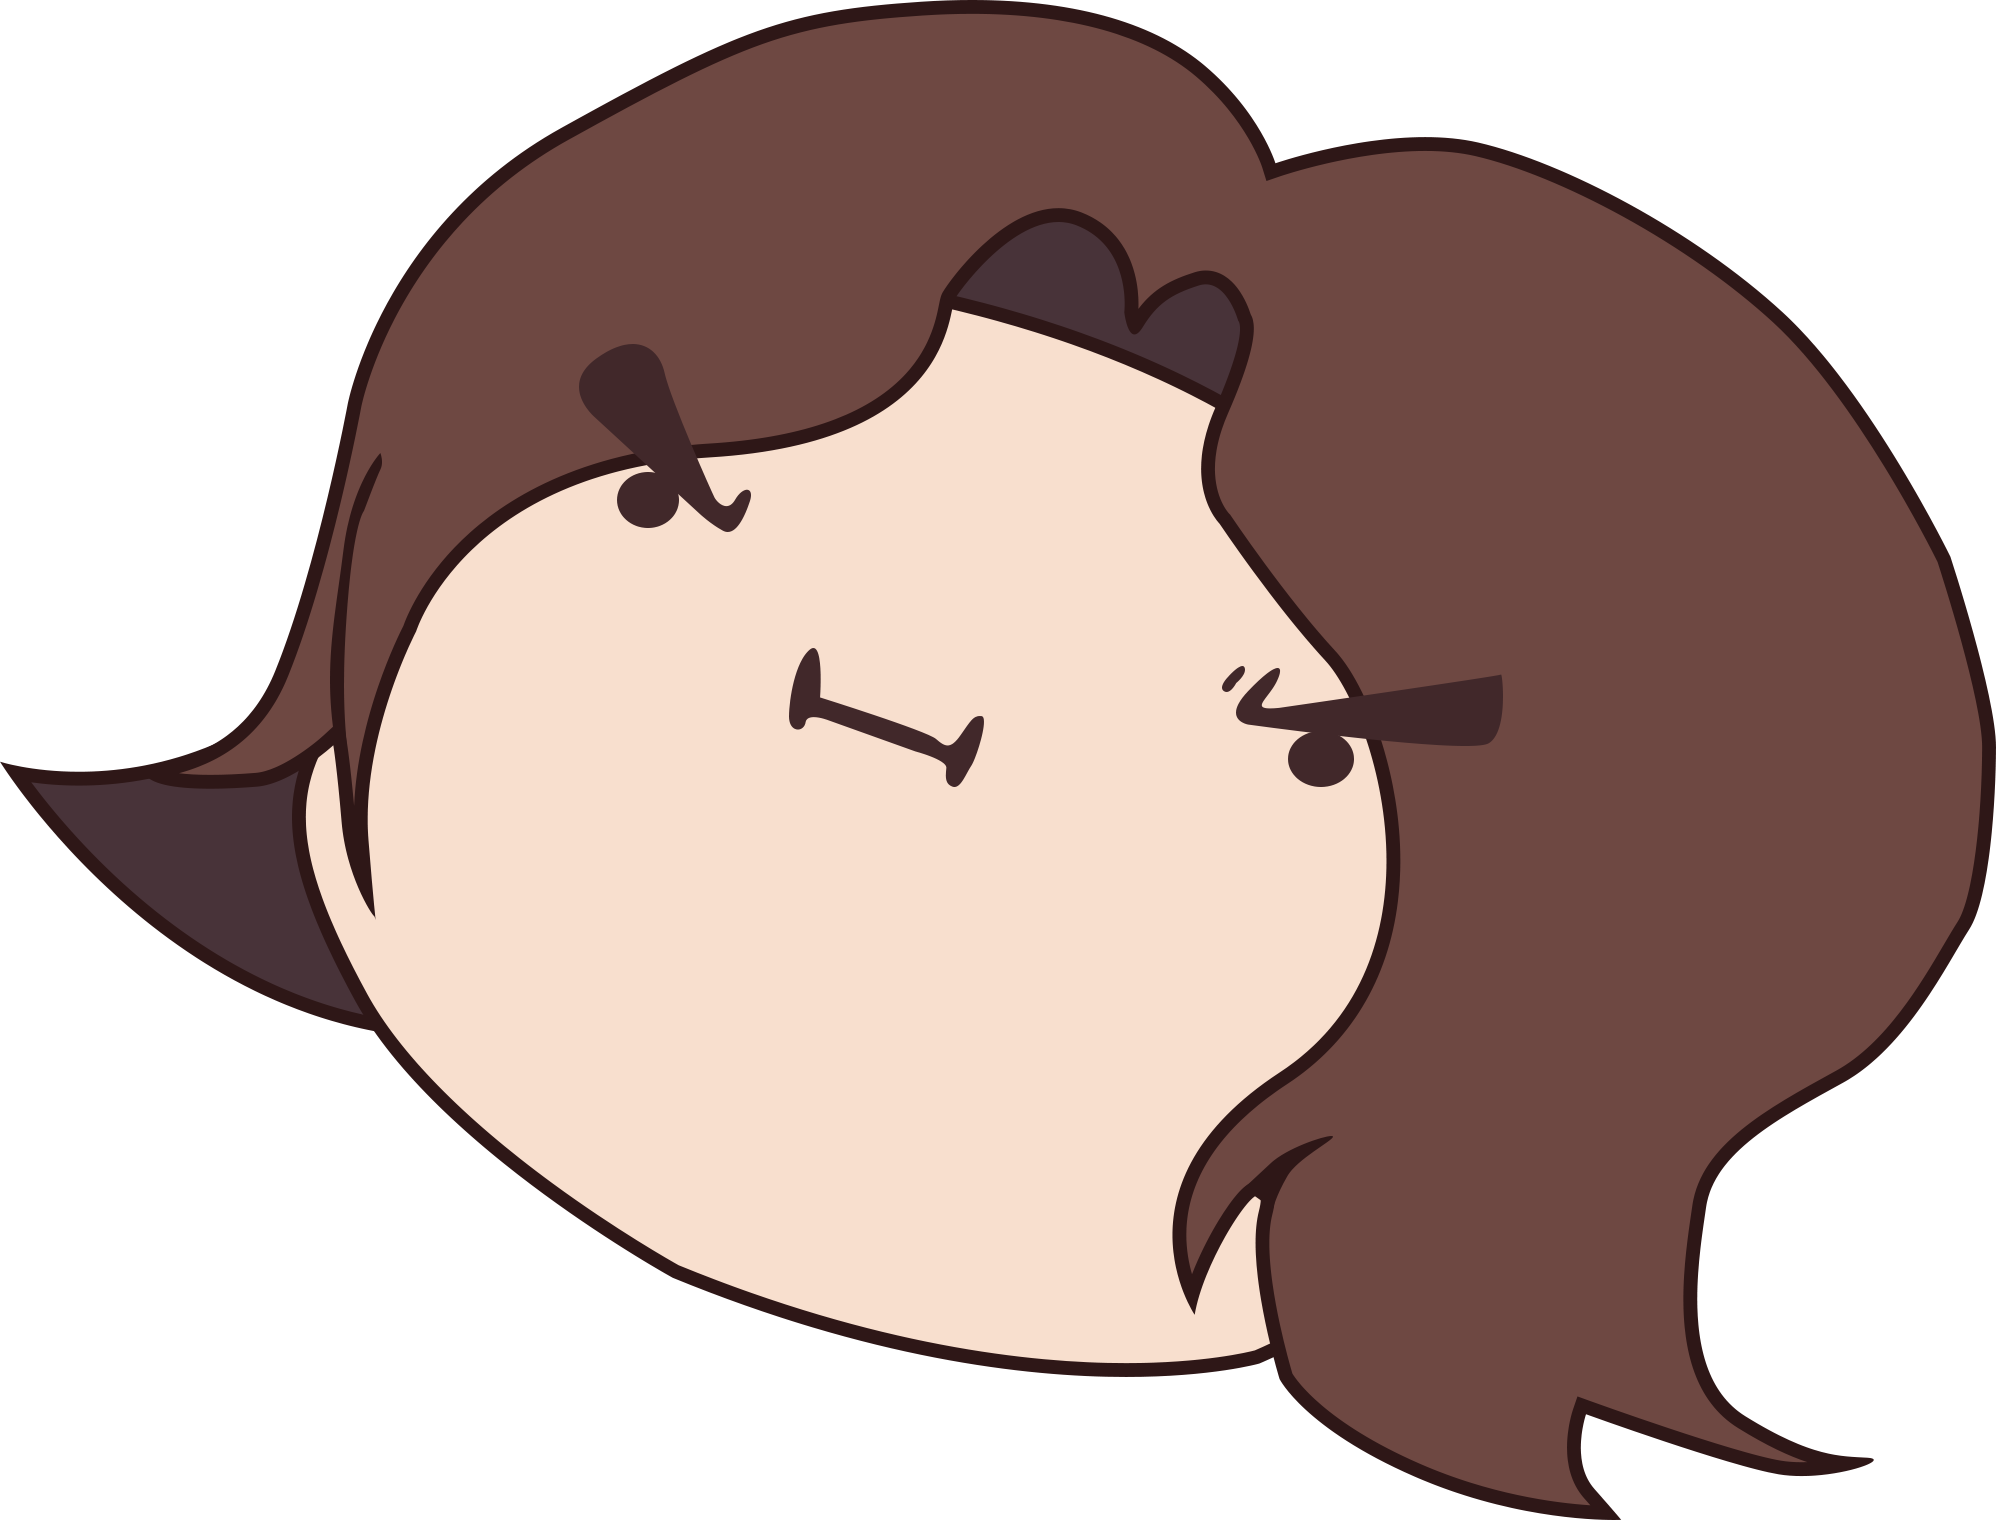
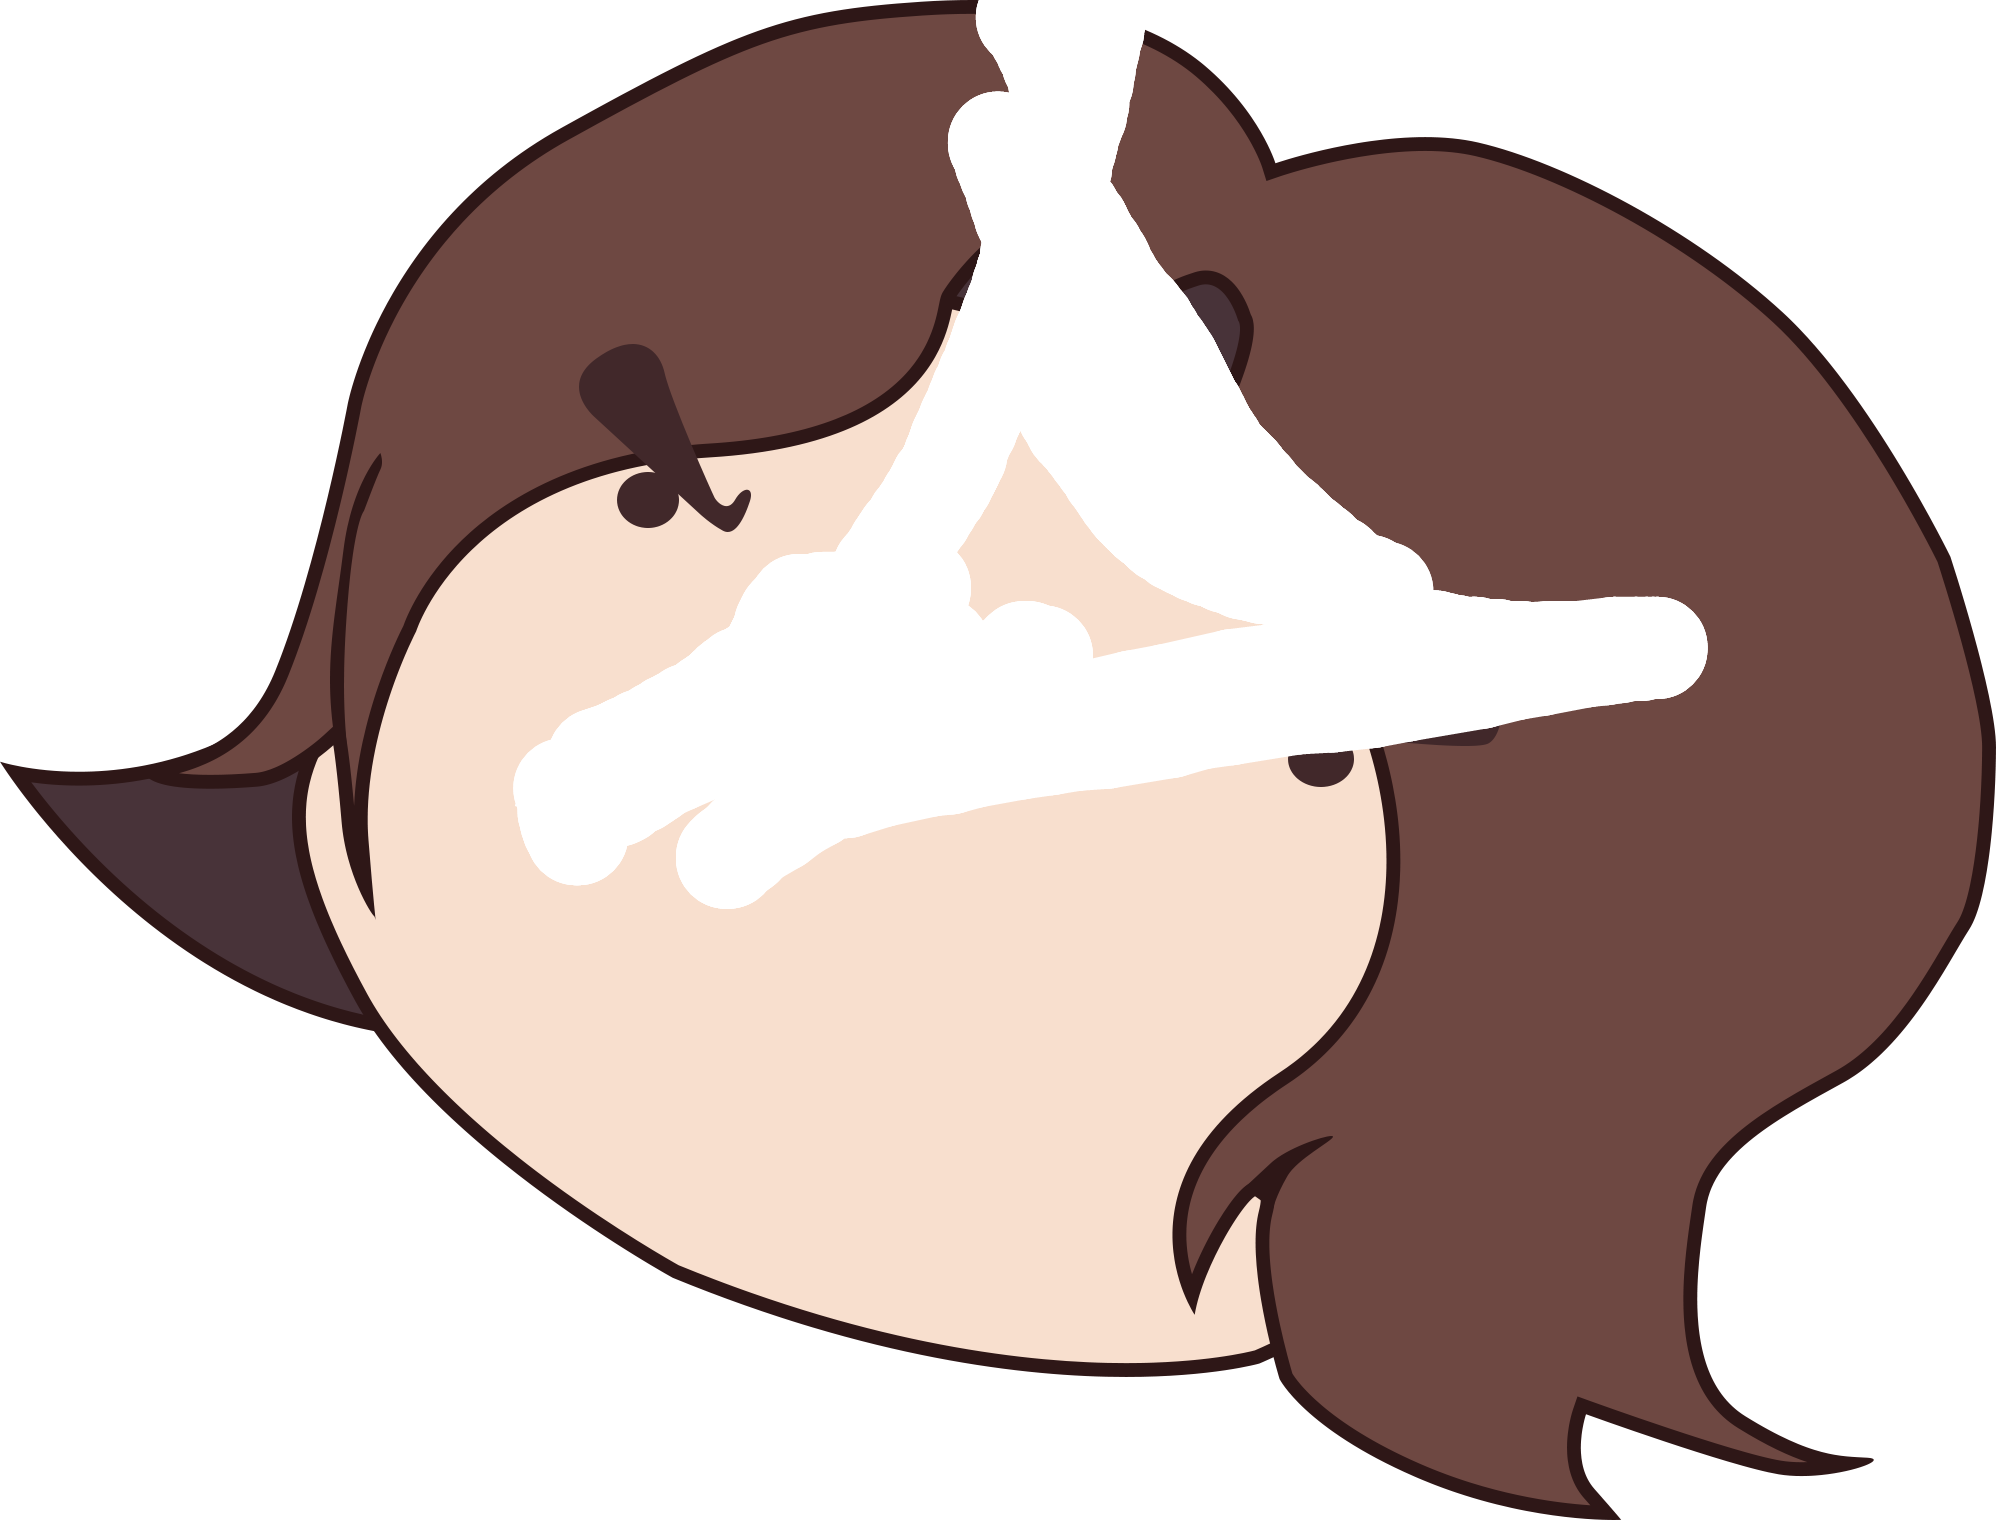
Fixed the shadows to work on square textures. Things are a bit wonky with the quality of the shadows however. I think this just means that I need to increase the resolution of the square meshes.

Changed region(s): [[0.248, 0.0, 0.868, 0.6152]]

diff --git a/view_drawer.cpp b/view_drawer.cpp
@@ -35,7 +35,7 @@ void ViewDrawer::initialize() {
 	glEnable(GL_BLEND);
 	glBlendFunc(GL_SRC_ALPHA, GL_ONE_MINUS_SRC_ALPHA);
 
-	projection_set_screen();
+	projection_set_screen(1000, 800);
 
 	// SDL_GL_SetSwapInterval(1);
 }
@@ -43,11 +43,12 @@ void ViewDrawer::initialize() {
 void ViewDrawer::deinitialize() {
 }
 
-void ViewDrawer::projection_set_screen() {
+void ViewDrawer::projection_set_screen(int width, int height) {
 	//Set the camera to an orthogonal projection so that it is the whole screen 
 	glMatrixMode(GL_PROJECTION);
 	glLoadIdentity();
-	glOrtho(0, game.get_state().screen_width(), 0, game.get_state().screen_height(), .1, 10);
+	glOrtho(-width/2, width/2, -height/2, height/2, .1, 10);
+	glViewport(0, 0, width, height);
 }
 
 void ViewDrawer::TEMP_VBO_SHIT() {
@@ -56,10 +57,10 @@ void ViewDrawer::TEMP_VBO_SHIT() {
 
 	float vals[grump_vbo_num*(3+2)] = {
 		//Vertex locations
-		0.0, 0.0, -1.0,
-		1.0, 0.0, -1.0,
-		1.0, 1.0, -1.0,
-		0.0, 1.0, -1.0,
+		-0.5,-0.5, -1.0,
+		 0.5,-0.5, -1.0,
+		 0.5, 0.5, -1.0,
+		-0.5, 0.5, -1.0,
 		//Texture locations
 		0.0, 1.0,
 		1.0, 1.0,
@@ -110,14 +111,54 @@ void ViewDrawer::draw_texture(SH_prog_id shader, TH_tex_id texture) {
 	glDrawArrays(GL_QUADS, 0, 4);
 }
 
+void ViewDrawer::draw_light(SH_prog_id shader, TH_tex_id shadow_map) {
+	game.get_state().use_program(shader);
+
+	glActiveTexture(GL_TEXTURE1);
+	game.get_state().bind_texture(shadow_map);
+
+	GLfloat mvmat[16], promat[16];
+	glGetFloatv(GL_MODELVIEW_MATRIX, mvmat);
+	glGetFloatv(GL_PROJECTION_MATRIX, promat);
+
+	glUniformMatrix4fv(game.get_state().get_uniform_loc(shader, "view_matrix"), 1, false, mvmat);
+	glUniformMatrix4fv(game.get_state().get_uniform_loc(shader, "proj_matrix"), 1, false, promat);
+	glUniform3f(game.get_state().get_uniform_loc(shader, "light_color"), 1.0, 1.0, 1.0);
+	glUniform1i(game.get_state().get_uniform_loc(shader, "shadow_texture"), 1);
+
+	glBindBuffer(GL_ARRAY_BUFFER, grump_vbo);
+	glEnableVertexAttribArray(game.get_state().get_shader_attrs(shader)[0].first);
+	glVertexAttribPointer(game.get_state().get_shader_attrs(shader)[0].first, 3, GL_FLOAT, GL_FALSE, 0, 0);
+	glDrawArrays(GL_QUADS, 0, 4);
+}
+
 void ViewDrawer::draw_grumps(SH_prog_id shader_id) {
+	// glPushMatrix();
+	// glTranslatef(400, 200, 0);
+	// glScalef(100, 100, 1);
+	// draw_texture(shader_id, TH_GRUMP);
+	// glPopMatrix();
+
 	glPushMatrix();
-	glScalef(100, 100, 1);
+	glTranslatef(-300, -300, 0);
+	glScalef(200, 200, 1);
 	draw_texture(shader_id, TH_GRUMP);
 	glPopMatrix();
 
+	// glPushMatrix();
+	// glTranslatef(-250, 100, 0);
+	// glScalef(50, 250, 1);
+	// draw_texture(shader_id, TH_GRUMP);
+	// glPopMatrix();
+
+	// glPushMatrix();
+	// glTranslatef(350, -200, 0);
+	// glScalef(50, 250, 1);
+	// draw_texture(shader_id, TH_GRUMP);
+	// glPopMatrix();
+
 	glPushMatrix();
-	glTranslatef(300, 100, 0);
+	glTranslatef(250, 0, 0);
 	glScalef(200, 200, 1);
 	draw_texture(shader_id, TH_GRUMP);
 	glPopMatrix();
@@ -128,14 +169,14 @@ void ViewDrawer::draw_screen() {
 	GLenum gca0 = GL_COLOR_ATTACHMENT0;
 
 	//Prerender to an occlusion texture
+	projection_set_screen(1024, 1024);
 	glBindFramebuffer(GL_FRAMEBUFFER, occluder_frame_buffer);
 	glDrawBuffers(1, &gca0);
-	glClearColor(1.0f, 1.0f, 1.0f, 1.0f);
+	glClearColor(1.0f, 1.0f, 1.0f, 0.0f);
 	glClear(GL_COLOR_BUFFER_BIT);
 
 	glPushMatrix();
-	glScalef(1, -1, 1);
-	glTranslatef(0, -800, 0);
+	// glScalef(1, -1, 1);
 	draw_grumps(SH_OCCLUDER);
 	glPopMatrix();
 
@@ -148,14 +189,14 @@ void ViewDrawer::draw_screen() {
 	}
 
 	//Render the occlusion texture to the shadow texture
-	glViewport(0, 0, 1000, 800);
+	// projection_set_screen(1024, 1);
 	glBindFramebuffer(GL_FRAMEBUFFER, shadow_frame_buffer);
 	glDrawBuffers(1, &gca0);
 	glClearColor(0.0f, 1.0f, 0.0f, 1.0f);
 	glClear(GL_COLOR_BUFFER_BIT);
 
 	glPushMatrix();
-	glScalef(1000, 800, 1);
+	glScalef(1024, 1024, 1);
 	glProgramUniform1f(game.get_state().get_program(SH_SHADOW_COMPRESS), game.get_state().get_uniform_loc(SH_SHADOW_COMPRESS, "resolution"), 800.0);
 	draw_texture(SH_SHADOW_COMPRESS, TH_OCCLUDER);
 	// draw_texture(SH_PASS, TH_GRUMP);
@@ -166,16 +207,18 @@ void ViewDrawer::draw_screen() {
 	}
 
 	//Actual render to screen
-	glViewport(0, 0, 1000, 800);
+	projection_set_screen(1000, 800);
 	glBindFramebuffer(GL_FRAMEBUFFER, 0);
-	glClearColor(0.0f, 0.0f, 0.0f, 1.0f);
+	glClearColor(1.0f, 0.0f, 0.0f, 1.0f);
 	glClear(GL_COLOR_BUFFER_BIT | GL_DEPTH_BUFFER_BIT);
 	
 	glPushMatrix();
-	glScalef(1000, 800, 1);
-	draw_texture(SH_TEX_1_PASS, TH_SHADOW);
+	glScalef(800, 800, 1);
+	// draw_texture(SH_TEX_1_PASS, TH_SHADOW);
 	// draw_texture(SH_PASS, TH_OCCLUDER);
+	draw_light(SH_SHADOW_LIGHT, TH_SHADOW);
 	glPopMatrix();
+	draw_grumps(SH_PASS);
 
 	error = glGetError();
 	if (error != 0) {

diff --git a/view_state.cpp b/view_state.cpp
@@ -92,6 +92,14 @@ void ViewState::create_shaders() {
 	tex_1_pass_shad.add_attribute("tex_coord");
 	tex_1_pass_shad.link_program();
 
+	ShaderProgram& unroll_pass_shad = sh.access_program(SH_UNROLL_PASS);
+	unroll_pass_shad.create_program();
+	unroll_pass_shad.add_shader(GL_VERTEX_SHADER, "unroll_polar.vert");
+	unroll_pass_shad.add_shader(GL_FRAGMENT_SHADER, "tex1pass.frag");
+	unroll_pass_shad.add_attribute("in_position");
+	unroll_pass_shad.add_attribute("tex_coord");
+	unroll_pass_shad.link_program();
+
 	ShaderProgram& gray_shad = sh.access_program(SH_GRAY);
 	gray_shad.create_program();
 	gray_shad.add_shader(GL_VERTEX_SHADER, "pass.vert");
@@ -102,7 +110,7 @@ void ViewState::create_shaders() {
 
 	ShaderProgram& occ_shad = sh.access_program(SH_OCCLUDER);
 	occ_shad.create_program();
-	occ_shad.add_shader(GL_VERTEX_SHADER, "pass.vert");
+	occ_shad.add_shader(GL_VERTEX_SHADER, "unroll_polar.vert");
 	occ_shad.add_shader(GL_FRAGMENT_SHADER, "occluder.frag");
 	occ_shad.add_attribute("in_position");
 	occ_shad.add_attribute("tex_coord");
@@ -115,6 +123,13 @@ void ViewState::create_shaders() {
 	comp_shad.add_attribute("in_position");
 	comp_shad.add_attribute("tex_coord");
 	comp_shad.link_program();
+
+	ShaderProgram& sl_shad = sh.access_program(SH_SHADOW_LIGHT);
+	sl_shad.create_program();
+	sl_shad.add_shader(GL_VERTEX_SHADER, "pass_color.vert");
+	sl_shad.add_shader(GL_FRAGMENT_SHADER, "shadow_light.frag");
+	sl_shad.add_attribute("in_position");
+	sl_shad.link_program();
 }
 
 int ViewState::check_valid() {
@@ -136,8 +151,8 @@ void ViewState::load_images() {
 	gen_texture(TH_SHADOW);
 
 	load_texture_image(TH_GRUMP, "images/arin_grump.png");
-	load_texture_empty(TH_OCCLUDER, SCREEN_WIDTH, SCREEN_HEIGHT);
-	load_texture_empty(TH_SHADOW, SCREEN_WIDTH);
+	load_texture_empty(TH_OCCLUDER, 1024, 1024);
+	load_texture_empty(TH_SHADOW, 1024);
 }
 
 void ViewState::unload_images() {

diff --git a/shader.cpp b/shader.cpp
@@ -6,10 +6,15 @@ int ShaderProgram::load_shader_file(const string& file_name, string& file_conten
 
 	if (src_file.is_open()) {
 		//The file successfully opened, load the file's contents
-		src_file.seekg(0, std::ios::end);
-		file_contents.resize(src_file.tellg());
-		src_file.seekg(0, std::ios::beg);
-		src_file.read(&file_contents[0],file_contents.size());
+		// src_file.seekg(0, std::ios::end);
+		// file_contents.resize(src_file.tellg());
+		// src_file.seekg(0, std::ios::beg);
+		// src_file.read(&file_contents[0],file_contents.size());
+		// src_file.close();
+		string temp;
+		while (getline(src_file, temp)) {
+			file_contents.append(temp).append("\n");
+		}
 		src_file.close();
 	} else {
 		//The file could not be opened report an error.
@@ -52,6 +57,7 @@ int ShaderProgram::add_shader(const GLenum shader_type, const string& file_name)
 		//Log the error (currently just print)
 		std::cout << "Compilation error in " << file_name << std::endl;
 		std::cout << error_msg.data() << std::endl;
+		std::cout << "Outputting source: " << std::endl << src << std::endl;
 
 		glDeleteShader(shader);
 		return 2;

diff --git a/view_drawer.h b/view_drawer.h
@@ -34,11 +34,12 @@ public:
 	void initialize();
 	void deinitialize();
 
-	void projection_set_screen();
+	void projection_set_screen(int, int);
 
 	void draw_screen();
 	void draw_texture(SH_prog_id shader, TH_tex_id texture);
 	void draw_grumps(SH_prog_id);
+	void draw_light(SH_prog_id, TH_tex_id);
 };
 
 #endif

diff --git a/shader.h b/shader.h
@@ -21,9 +21,11 @@ enum SH_prog_id {
 	SH_PASS,
 	SH_PASS_TEX,
 	SH_TEX_1_PASS,
+	SH_UNROLL_PASS,
 	SH_GRAY,
 	SH_OCCLUDER,
 	SH_SHADOW_COMPRESS,
+	SH_SHADOW_LIGHT,
 	SH_NUM_SHAD
 };
 
